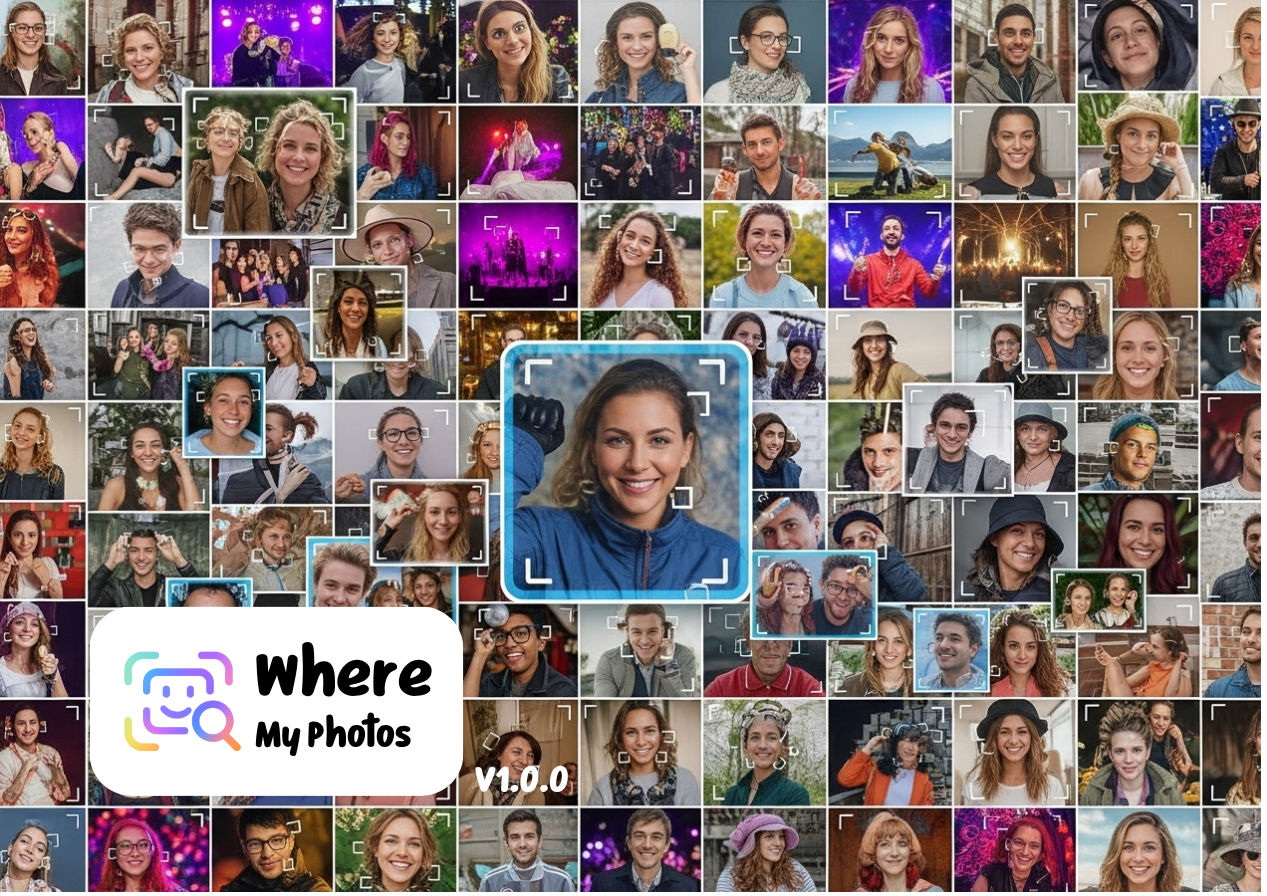
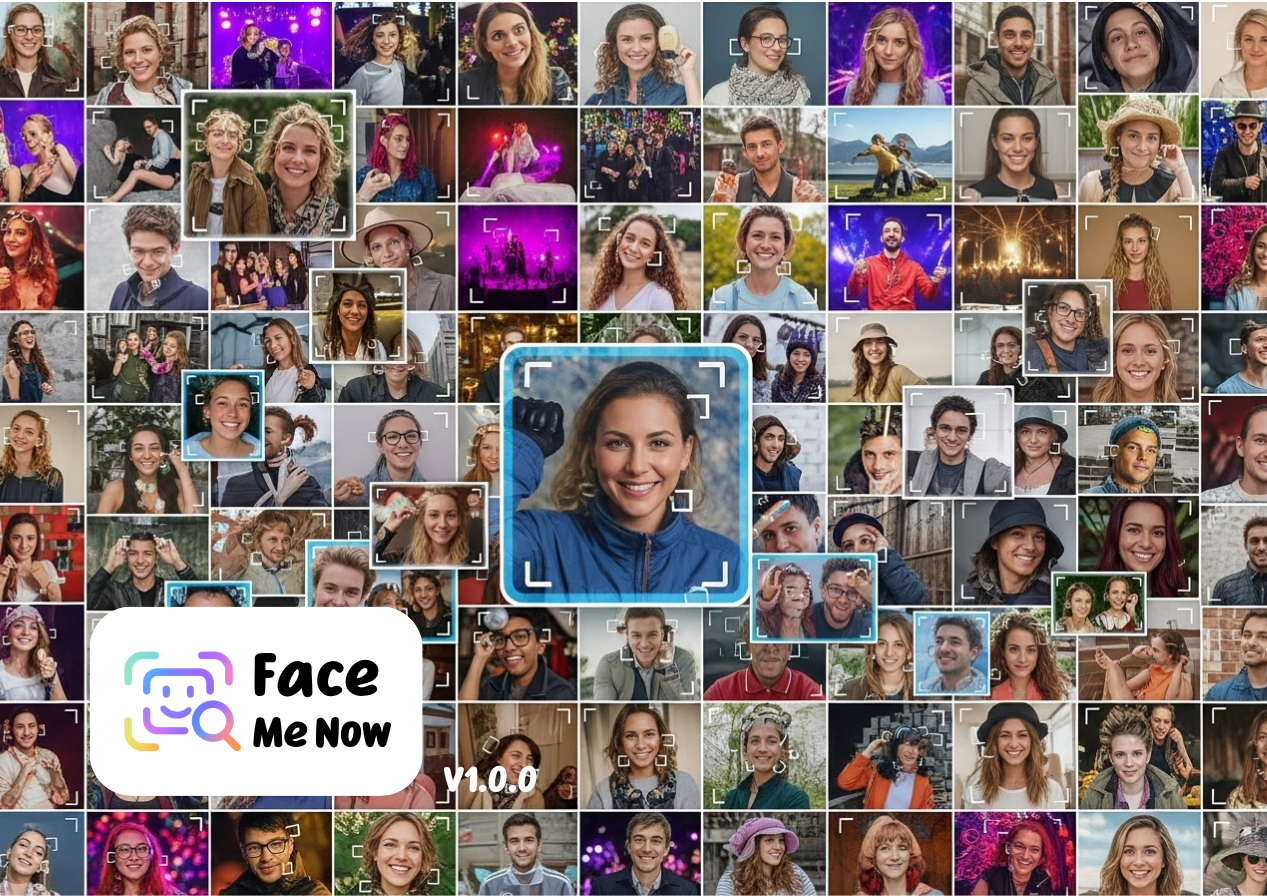
Face me now change name

diff --git a/src/app/layout.js b/src/app/layout.js
@@ -7,19 +7,19 @@ const noto_sans_thai = Noto_Sans_Thai({
 });
 
 export const metadata = {
-  title: "Where My Photos",
+  title: "Face me now",
   description: "ค้นหารูปภาพจากงาน กิจกรรม หรือเทศกาล ด้วยการอัปโหลดใบหน้า",
   openGraph: {
-    title: "Where My Photos",
+    title: "Face me now",
     description: "ค้นหารูปภาพจากงาน กิจกรรม หรือเทศกาล ด้วยการอัปโหลดใบหน้า",
-    url: "https://wheremyphotos.com",
-    siteName: "Where My Photos",
+    url: "https://facemenow.co",
+    siteName: "Face me now",
     images: [
       {
-        url: "https://wheremyphotos.com/op.png",
+        url: "https://facemenow.co/op.png",
         width: 1200,
         height: 630,
-        alt: "Where My Photos - ค้นหารูปภาพจากใบหน้า",
+        alt: "Face me now - ค้นหารูปภาพจากใบหน้า",
       },
     ],
     locale: "th_TH",
@@ -27,13 +27,13 @@ export const metadata = {
   },
   twitter: {
     card: "summary_large_image",
-    title: "Where My Photos",
+    title: "Face me now",
     description: "ค้นหารูปภาพจากงาน กิจกรรม หรือเทศกาล ด้วยการอัปโหลดใบหน้า",
-    images: ["https://wheremyphotos.com/op.png"],
-    creator: "@wheremyphotos",
+    images: ["https://facemenow.co/op.png"],
+    creator: "@facemenow",
   },
   alternates: {
-    canonical: "https://wheremyphotos.com",
+    canonical: "https://facemenow.co",
   },
   robots: {
     index: true,
@@ -47,15 +47,15 @@ export const metadata = {
     },
   },
   keywords: [
-    "Where My Photos",
+    "Face me now",
     "ค้นหารูปภาพ",
     "หารูป",
     "ค้นหารูปภาพด้วยใบหน้า",
     "หาใบหน้าจากรูป",
   ],
-  authors: [{ name: "Where My Photos" }],
-  creator: "Where My Photos",
-  publisher: "Where My Photos",
+  authors: [{ name: "Face me now" }],
+  creator: "Face me now",
+  publisher: "Face me now",
   formatDetection: {
     email: false,
     address: false,
